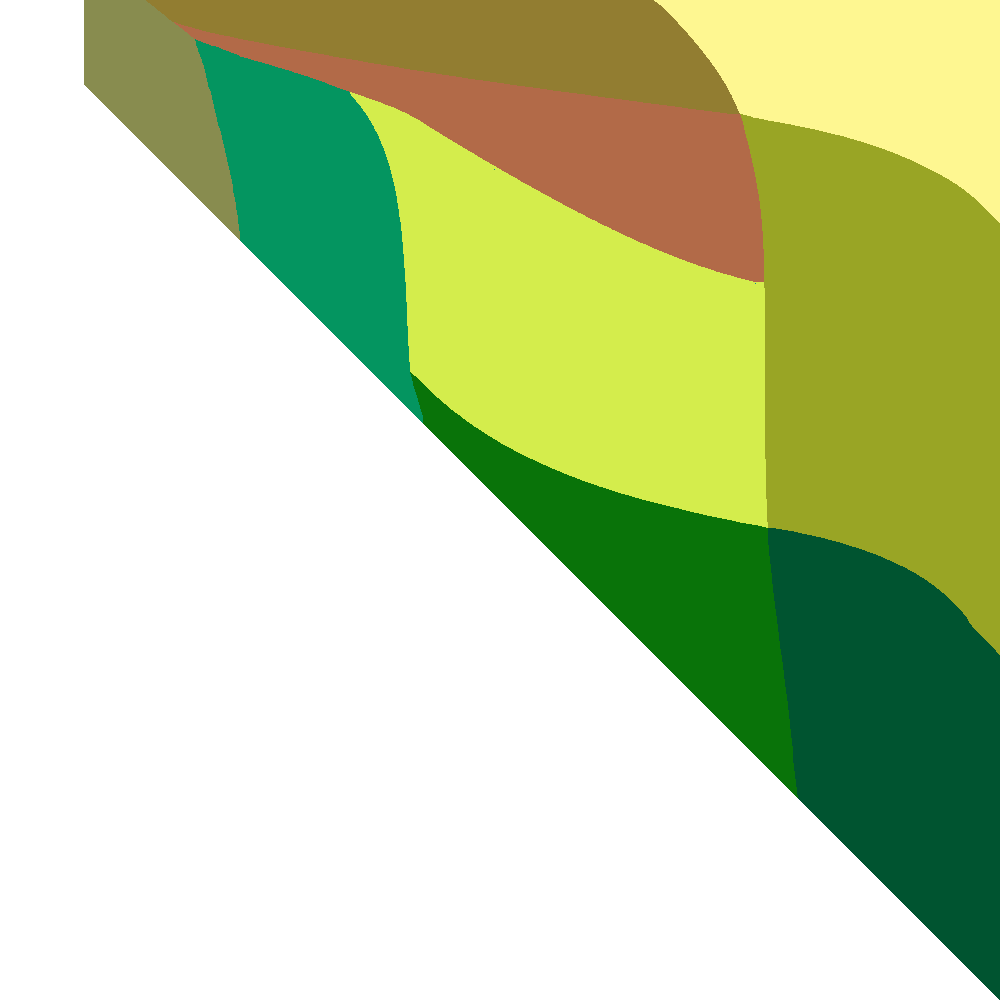
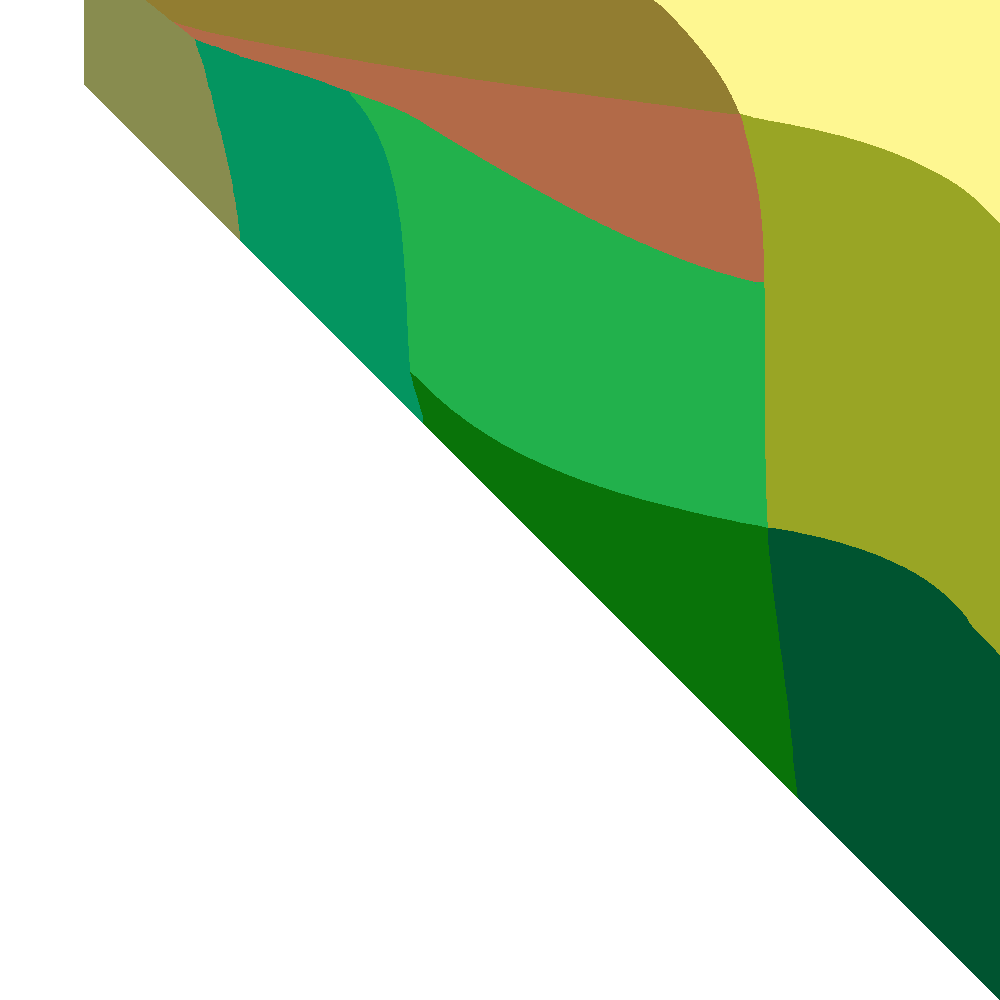
Map fixes

Changed region(s): [[0.341, 0.093, 0.775, 0.527]]

diff --git a/scripts/RootControler.cs b/scripts/RootControler.cs
@@ -160,6 +160,7 @@ public class RootControler : Node
 			config.map.longitude = map.GetWidth();
 
 			ImageNoiseGenerator generator = new ImageNoiseGenerator(map, config);
+			weltschmerz.TemperatureGenerator = new Temperature(config);
 			weltschmerz.NoiseGenerator = generator;
 		}else{
 			Noise noise = new Noise(config);
@@ -225,24 +226,31 @@ public class RootControler : Node
 	}
 
 	private void GenerateBiomMap(){
+
 		for(int x = 0; x < config.map.longitude; x++){
 			for(int y = 0; y < config.map.latitude; y ++){
 		
 		double elevation = weltschmerz.GetElevation(x, y);
 		double temperature = weltschmerz.GetTemperature(y, elevation);
 
-		double precipitation = weltschmerz.GetPrecipitation(x, y, elevation, temperature);
+		double precipitation = weltschmerz.GetPrecipitation(x, y, elevation, temperature)/4;
 		precipitationValues.Add((int)precipitation);
 
 		precipitation = (biomMap.GetWidth() * precipitation)/biomMap.GetHeight();
 
-		temperature = (biomMap.GetHeight()*((temperature + Math.Abs(config.temperature.min_temperature)) 
-		* (biomMap.GetWidth()/(config.temperature.max_temperature + Math.Abs(config.temperature.min_temperature)))))/biomMap.GetWidth();
-		precipitation = Math.Min(Math.Max(precipitation, 0), biomMap.GetHeight() - 1);
-		temperature =  Math.Min(Math.Max(temperature, 0), biomMap.GetWidth() - 1);
+	//	Godot.GD.Print(temperature);
 
-		int posY = (int) Math.Min(precipitation, temperature);
-		int posX = (int)temperature;
+		temperature = temperature/config.temperature.min_temperature;
+		temperature *= biomMap.GetWidth()/4;
+
+		temperature = (biomMap.GetWidth()/4) - temperature;
+
+		//Godot.GD.Print(temperature);
+		temperature =  Math.Min(Math.Max(temperature, 0), biomMap.GetWidth() - 1);
+		precipitation = Math.Min(Math.Max(precipitation, 0), temperature);
+
+		int posY = (int) precipitation;
+		int posX = (int) temperature;
 
 				if(!WeltschmerzUtils.IsLand(elevation)){
 					map.SetPixel(x, y, new Color( 0, 0, 1, 1 ));
